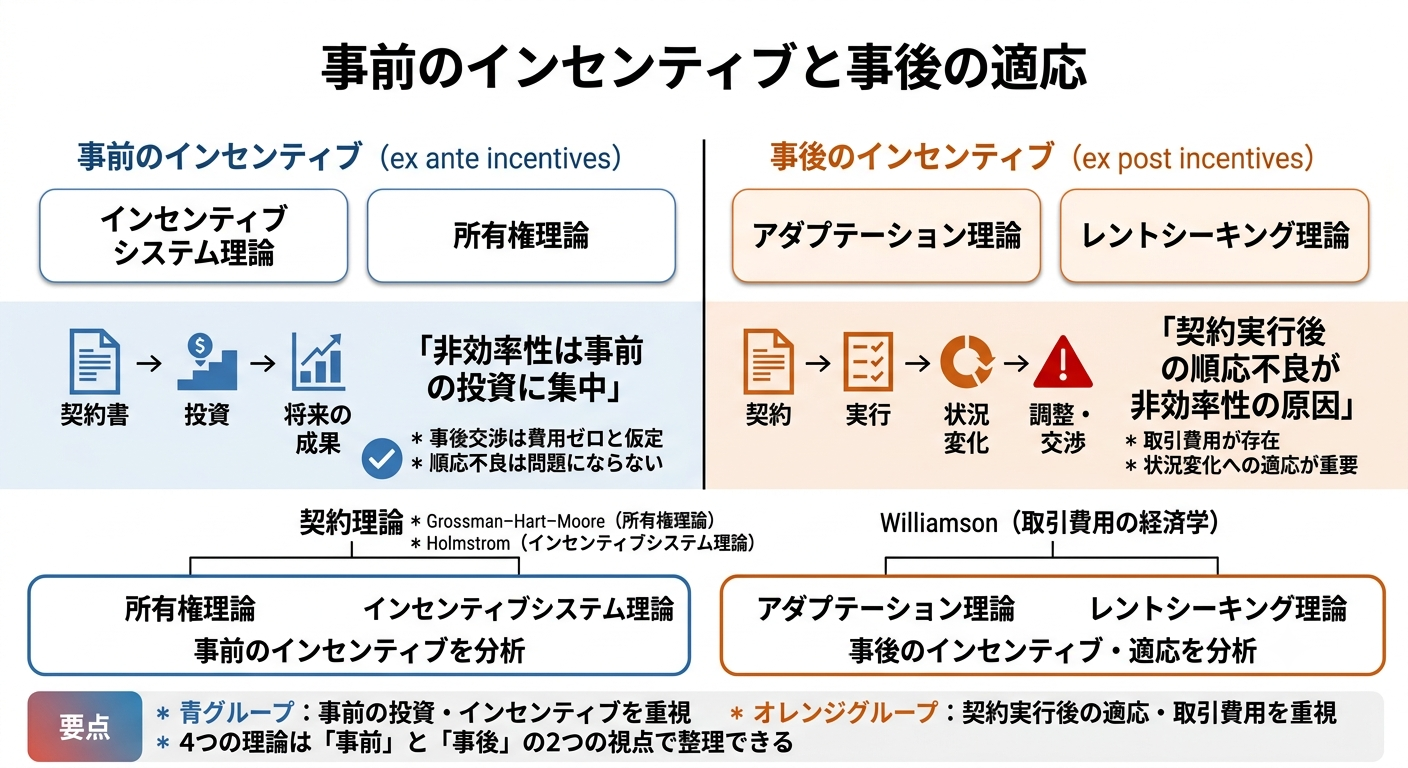
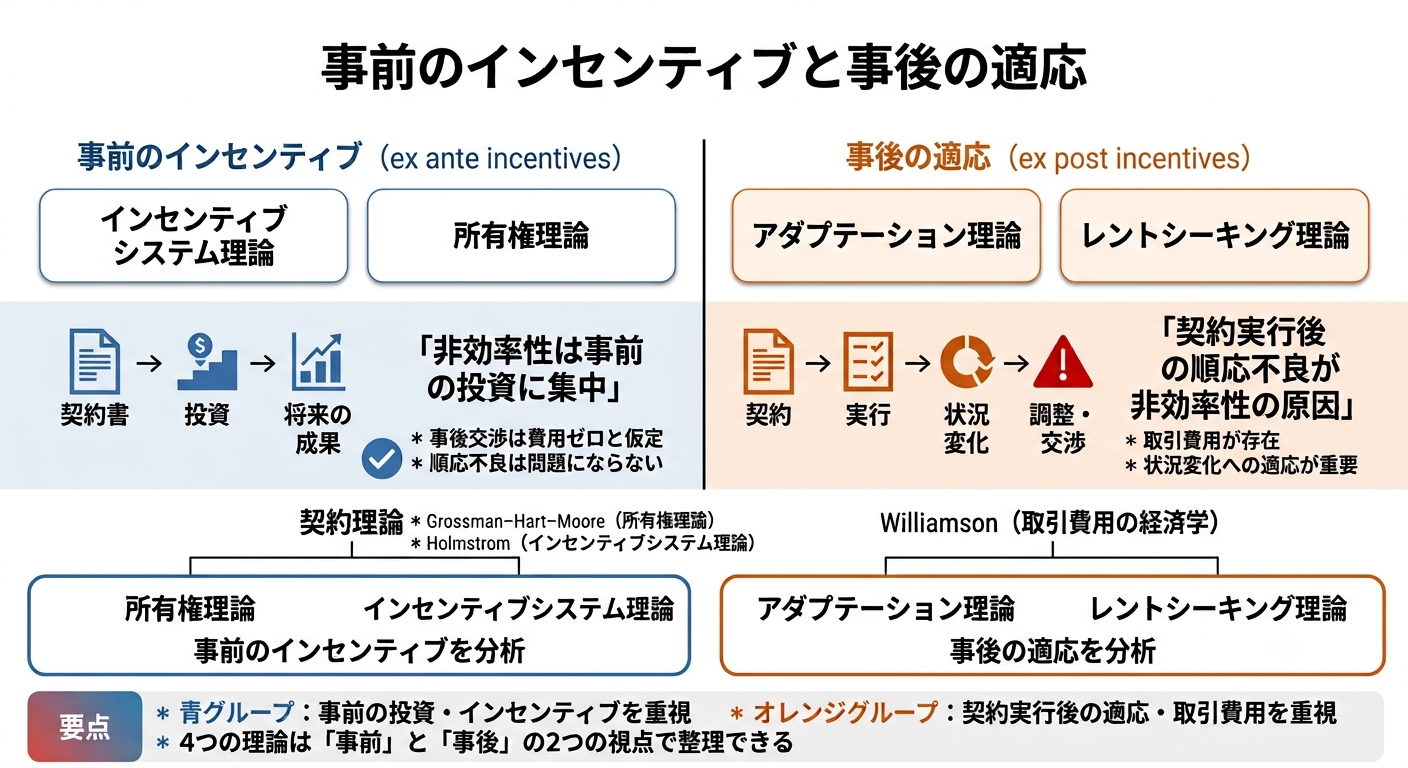
3章と4章の実証研究以外は完成

diff --git a/経済学/組織の経済学のフロンティアと日本企業組織/chap4_A.md b/経済学/組織の経済学のフロンティアと日本企業組織/chap4_A.md
@@ -12,9 +12,47 @@
 
 - 
 
+<div style="page-break-before:always"></div>
+
 ## 上流・下流の双方が投資を行うモデル
 
-- 
+#### 【復讐】垂直的な生産関係
+
+<img src="images/4-1.png" width=75%>
+
+- 上図はギボンズによる垂直的な生産関係を示す図である。本節では前章冒頭の復習をする。
+- 【**再掲：事前知識1**】製造設備などの物的資産の所有権（$\text{ownership of asset}$）の所在は生産される中間財の所有権（$\text{ownership of intermediate good}$）の所在を決める。
+- 【**再掲：数式の定義**】まず、資産か機械である$A$がある。上流$U$は$A$を使用して複数の活動・職務（$\text{multi-task}$）のアクション$a=(a_1,\;\cdots,\;a_n)$をとる。そして中間生産物が生産される。この中間生産物は下流$D$もしくは$D'$に行きうる。しかしアクション$a$は$D$に対する**特殊的投資**、あるいは$A$は$D$に対する**特殊的な機械・資産**であるので中間生産物自体は全く同じ財であるが、中間生産物が$D$に行った場合の価値$Q(a)=\{Q_1,\;\cdots,\;Q_I\}$、は$D'$に行った場合の価値$P(a)=\{P_1,\;\cdots,\;P_J\}$より大きい（$Q>P$）。これが<b>特殊性</b>の尺度を表す。$Q$と$P$の確率密度関数$f$は$Q_i$が$P_j$より大きい時だけ正の値をとる（$\color{red}f(Q_i,\;P_j)>0\quad\text{if only}\quad Q_i>P_j$）。$Q$と$P$の値は観察可能（$\text{observable}$）であるが第三者に立証可能（$\text{verifiable}$）ではない。
+
+<div style="page-break-before:always"></div>
+
+【**非統合／アウトソーシングの場合**】$U$は$A$を所有している場合
+
+- <font color=red>$U$が$A$を所有しているので中間財の所有権は$U$にある</font>。このとき$U$は$a$を実行し、$A$を用いて中間財を生産し、そして$U$は「$D$に売ろうか、$D'$に売ろうか」と考える。このとき$U$は「**独立した契約者（$\text{independent contractor}$）**」
+- 非統合では交渉（バーゲニング）が発生する。私（$U$）は$D$に「あなたが$Q$の支払いを私にしてくれれば嬉しい」という。これに対し、$D$は$U$に「私はそうは思わない、あなたは$D'$に売ることになれば$P$しか得ることができない。私はあなたに$P$の支払いをしようと思う。」という。上記の交渉を経て、<font color=red>非統合では交渉が発生し、支払額は$\left(\;Q(a)+P(a)\;\right)/2$で決着がつく</font>。非統合において$U$が実行する$a$に対する業績給（$\text{pay-for-performance}$）が$\left(\;Q(a)+P(a)\;\right)/2$として発生し、いわば**インセンティブ契約**（ある種のインセンティブスキーム）のようになっている。この例では1回だけスポットで取引を行っているので「**スポットアウトソーシング（$\text{spot outsourcing}$）**」と呼ばれる。
+- $U$は$a$を行うインセンティブを有するが、そのインセンティブの良し悪しはわからない。例えば、$Q$を跳ね上げても$U$はその半分$Q/2$のリターンを得るに過ぎない。ベストケースは$a$の全てが$Q$を跳ね上げる効果を持ち、$P$については効果を持たない場合であり、最悪のケースはアクションが$Q$に対しては何の効果も持たず$P$の跳ね上げだけに帰結する場合である（**大いなる浪費**）。
+
+【**統合／雇用の場合**】$D$は$A$を所有している場合
+
+- <font color=red>$D$が$A$を所有しているので生産される中間財の所有権は$D$にある</font>。従って、$D$は$U$に「$a$を実行してくれてありがとう。ところで、この中間財を$D'$に提案することさえ考えてはいけない。なぜなら中間財は私（$D$）のが所有しているのだから。」と言う。この場合、$U$は所有していない$A$を使用しているので、$U$は「**従業員（$\text{employee}$）**」と呼べる。
+- $U$が仕事により中間財を生産し、それを$D$が所有する。**インセンティブ契約は出てこない**、極めて単純である。1回限りの「**スポット雇用（契約）**」の下では、$Q$と$P$の価値が実現して、$D$が生産された中間財を所有する。この状況で、$U$が投入する努力量は理論上$"\bold{ゼロである}"$。なぜなら支払いはなされないからである。
+- これは後述する$\text{Clive Bull}$の主観的ボーナスモデル（$\text{subjective bonus model}$）の1回限りのワンショットバージョンの場合に類似している。すなわち、<u>ワンショット（1回限りの）ゲームにおいて、均衡は$D$が$U$に支払いを行わないから、$U$は仕事をしないと言うことになる</u>。そこで質問である。この$U$の投入努力量ゼロは非統合の場合よりベターとなる可能性があるだろうか。答えはイエスである。なぜなら仮に全てのインセンティブが$P$を跳ね上げる効果を持っているのであれば、それは莫大な浪費になるからだる。どちらがより大きな余剰を生み出すかは明確ではない。
+
+<div style="page-break-before:always"></div>
+
+#### 1部門投資モデル（$\text{one-sided investment}$）
+
+- 以上の復習を踏まえ、$U$のみが$a$をとるので「**1部門投資（$\text{one-sided investment}$）のモデル**」と呼ぶ。これは簡単なケースである。非統合の場合、$U$は働き、生産された中間財は$U$が所有する。それから$U$は$D$に「中間財を$D'$に売ることを考えている。ついては$P$以上の支払いをするつもりはないか？」と交渉する。このとき、2つのケースを考える。
+  - 【**ケース1**】$Q=a_1+ka_2,\;P=a_1$とし、$k$は小さい値とする。この例では$a_1$に対して強いインセンティブを持っている。$k$の値が小さければメカニズムはかなりうまく動く。
+  - 【**ケース2**】$Q=a_1,\;P=a_1+ka_2$とし、$k$は大きい値とする。この例では、潜在的に$a_2$に強いインセンティブがあり、大きな浪費となる。この点はパラメータの状況次第である。
+
+#### 2部門投資モデル（$\text{two-sided investment}$）
+
+<img src="images/4-2.png">
+
+- $\text{Woodruff（2002）}$と$\text{Baker and Hubbard（2004）}$に到達するためにここで我々は二者が同時にアクションを取る（投資する）、「**2部門投資（$\text{two-sided investment}$）のモデル**」を導入する。すなわち、$U$はマルチタスクのアクション$a_U=(a_{U_1},\cdots,a_{U_n})$をとる。$D$もマルチタスクのアクション$a_D=(a_{D_1},\cdots,a_{D_n})$をとる。そして実現する価値は彼らの取るアクションとアウトサイドオプション（**交渉がまとまらなかったときに得られる別の選択肢や代替案**）に依存する。
+
+<div style="page-break-before:always"></div>
 
 ## 所有権理論の実証
 
@@ -27,6 +65,8 @@
 ### 異なる所有構造に応じた異なるホールドアップ
 
 - 
+
+<div style="page-break-before:always"></div>
 
 ## 所有権理論の実証2
 
@@ -44,6 +84,36 @@
 
 - 
 
+<div style="page-break-before:always"></div>
+
 ## 企業の境界論の中間的まとめ
 
-- 
+- なぜ所有権理論は人気があるのだろうか。$\text{Gibbons（2005a）}$は30年に及ぶ企業の境界論の研究史を4つのフォーマルモデルを類型化した。企業の境界論の発展のパターンは1971年（$\text{Williamson［1971］}$）に始まって以来、取引費用の連続だった。$\text{Holmstrom（1999b）}$のインセンティブシステム理論のアイデアは1999年であるし、アダプテーション理論は$\text{Simon（1951）}$がきっかけである。<u>所有権理論が人気がある理由の一つは長い間、取引費用の経済学に対する唯一の代替案であったこと、そして、唯一のフォーマルなモデルであったこともある</u>。
+- フォーマルな契約は起きることが確信できるという意味で優れている。しかし、$2kg$の塩の袋を取引する場合と違い、一般の取引は簡単ではない。契約の履行について、暗黙的あるいは明示的な保証があるか否かについて幾分かの疑義があるにもかかわらずあなたを信用しなければならない。あなたが明示的な保証があると主張する場合でも、それは「あなたは私に実際にそれを約束します。」という意味での明示性であり、言葉の上だけのものである。このため、私はあなたの履行状況をモニターする必要があり、違反に対しては処罰を行う必要がある。
+- フォーマルな契約に欠点が生じる場合、関係性（$\text{relationships}$）が必要となる（関係的契約）。しかし、関係性のうちには信頼とは逆のものが含まれており、信頼は破られうる。約束は守られない可能性がある。A-8章でのべる（$\text{Bull（1987）}$）の関係的契約の分析やこれを豊かにした$\text{Baker, Gibbons and Murphy（2002）}$でこの点は明確となった。
+
+#### 企業の境界論の4モデルの区分
+
+<img src="images/3-5.png">
+
+-  企業の境界論を4つに類型化において、「事前のインセンティブ」と「事後の適応」のいずれかにグルーピングすることができる。
+   - 【**「事前」のインセンティブに対する効果を考える理論**】①$\text{Holmstrom}$のインセンティブシステム理論、②$\text{Grossman-Hart-Moore}$の所有権理論
+   - 【**「事後」の適応に対する効果を考える理論**】$\text{Williamson}$を源流とする2つの理論、③アダプテーション理論、④レントシーキング理論
+- 理論には多くの可能性があり、事前のアクションと事後のアクションについて以下の可能性がある。
+  - 【**事前のアクション（$\text{ex ante actions}$）**】契約可能か否か、譲渡可能か否か。
+  - 【**事後の意思決定（$\text{ex post decisions}$）**】契約可能か否か、譲渡可能か否か。
+- これらの可能性の問いは、単に基本的なモデルを想定するだけでなく、多くの要素を詰め込み、モデルを結合できる。例えば、所有権理論は以下のようになる。
+  - 【**所有権理論における事前のアクション（$\text{ex ante actions}$）**】事前に契約不能で、譲渡不能なアクション。
+  - 【**所有権理論における事後の意思決定（$\text{ex post decisions}$）**】事後は契約可能で、譲渡可能な意思決定である。
+
+**レントシーキング理論が語るもの**
+
+- 抽象的に考える代わりに、モデルが何を我々に語っているかで見る。まずレントシーキング型の企業の境界論である。大きな専有可能な準レント（$\text{appropriable quasi-rents}$）、すなわち争い合う対象物を有している時、我々は争う。争いの対象物が多くなれば多くなるほど、争いに勝とうとして非効率性が大きくなる。これは望ましくない。ウィリアムソンはレントシーキング理論を次のように述べている。「**命令（統合されたコントロール）はしばしば交渉（駆け引き）よりも効率的である**」と。その意味で命令や所有権（$\text{ownership}$）はレントシーキングをやめると言うものである。このため、レントシーキング型の企業の境界線とその実証研究は非統合についての悪いニュースについてのものである。言い方を変えると、統合の便益についてのものである。
+
+**所有権理論が語るもの**
+
+- レントシーキング理論の分析では非統合の非効率性を挙げ、統合の有用性を述べた。では、統合のコストはないのだろうか。所有権理論はこれに対する答えを用意している。**所有権理論が人気があるもう一つの理由である**。
+- $\text{Woodruff（2002）}$のメキシコの靴産業の研究を思い起こせば、非統合の下では川下の小売店舗のオーナーは顧客の嗜好を把握するインセンティブを持つ。このため、小売店舗のオーナーによる投資が本当に重要であるならば、非統合が正しい選択となる。たとえ、川上の製造事業者が心配に感じる状況になっても、川下の小売店舗のオーナーが安心に感じられる選択が正しい。そして、<u>小売店舗のオーナーが安心に感じられる選択は「**非統合**」である</u>。
+- 他方で、**非統合**すなわち川下の小売店舗の店長自身が店舗を所有している時、川上の製造事業者がホールドアップされ、自分の作った靴が良くないと川下の小売店から言いがかりをつけられることを非常に心配していたらどうするか。できることは、製造事業者が小売店舗を統合する「前方への統合（$\text{forward integration}$）」である。結果、製造事業者が店舗を所有することとなる。この場合、統合のコストは何だろうか。小売店舗の店長に進取の精神を喪失させることである。なぜなら、店長は製造事業者が自分の進取の精神にむくいないことを心配するからである。統合された今、店長は製造事業者の下で働くことになるわけで、製造事業者はいつでも店長を解雇することができる。あるいは、店長がしっかりと顧客の嗜好性をつかんだとしても、それにむくいずボーナスを支払わないことができるのである。
+
+

diff --git a/経済学/組織の経済学のフロンティアと日本企業組織/chap3_A.md b/経済学/組織の経済学のフロンティアと日本企業組織/chap3_A.md
@@ -329,7 +329,7 @@ graph TD
 - 取引費用の経済学である「レントシーキング理論」と「アダプテーション理論」は同じ考えの上にのっているとも言えるが、所有権理論とは考え方が異なる。<u>取引費用の経済学の場合、契約の実行段階における順応不良が非効率性の主要な原因である</u>のに対し、所有権理論の場合、事後の交渉に費用がかからないと仮定を置くことで事後の順応不良の問題を消失させ、取り除いている。この結果、<u>所有権理論の全ての非効率性は事前の投資の問題に集中されている。この点が相違点である</u>。
 - これまでの4つの理論は大きく「事前のインセンティブに対する効果を考える理論」と「事後の適応に対する効果を考える理論」の2つのグループに分けられる。
   - 【**「事前」のインセンティブに対する効果を考える理論**】①$\text{Holmstrom}$のインセンティブシステム理論、②$\text{Grossman-Hart-Moore}$の所有権理論
-  - 【**「事後」の適応に対する効果を考える理論**】$Williamson$を源流とする2つの理論、③アダプテーション理論、④レントシーキング理論
+  - 【**「事後」の適応に対する効果を考える理論**】$\text{Williamson}$を源流とする2つの理論、③アダプテーション理論、④レントシーキング理論
 - 現実の世界はそれほど純粋で穢れのない状態ではないが、本書では純粋な理論のパッケージ（工具）として使えるようにすることであり、実際の問題にあたるときは応用する必要がある。
 
 ## 特殊的投資をめぐる事前の非効率性と事後の非効率性
